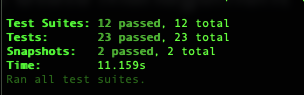
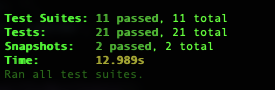
Revert "Challenge 4"

diff --git a/src/providers/Custom/Custom.provider.jsx b/src/providers/Custom/Custom.provider.jsx
@@ -1,33 +1,6 @@
-import React, { useContext, createContext, useReducer } from 'react';
+import React, { useState, useContext, createContext } from 'react';
 
-import * as types from '../../utils/constants';
 import videosMock from '../../youtube-videos-mock.json';
-
-const initialState = {
-  darkMode: false,
-  searchTerm: 'wizeline',
-  searchResult: { ...videosMock, items: videosMock.items.slice(1) },
-};
-
-const reducer = (state = initialState, { type, payload }) => {
-  switch (type) {
-    case types.SET_DARK_MODE: {
-      return { ...state, darkMode: !state.darkMode };
-    }
-
-    case types.SET_SEARCH_TERM: {
-      return { ...state, searchTerm: payload };
-    }
-
-    case types.SET_SEARCH_RESULT: {
-      return { ...state, searchResult: payload };
-    }
-
-    default: {
-      return state;
-    }
-  }
-};
 
 export const CustomContext = createContext(null);
 
@@ -42,22 +15,20 @@ export const useCustom = () => {
 };
 
 const CustomProvider = ({ children }) => {
-  const [state, dispatch] = useReducer(reducer, initialState);
+  const mock = { ...videosMock, items: videosMock.items.slice(1) };
 
-  const switchDarkMode = () => dispatch({ type: types.SET_DARK_MODE });
+  const [searchResult, setSearchResult] = useState(mock);
+  const [darkMode, setDarkMode] = useState(false);
 
-  const updateSearchTerm = (payload) =>
-    dispatch({ type: types.SET_SEARCH_TERM, payload });
-
-  const updateSearchResult = (payload) => {
-    if (payload?.items?.length) {
-      dispatch({ type: types.SET_SEARCH_RESULT, payload });
-    }
+  const updateSearchResult = (res) => {
+    if (res?.items?.length) setSearchResult(res);
   };
+
+  const switchDarkMode = () => setDarkMode((s) => !s);
 
   return (
     <CustomContext.Provider
-      value={{ ...state, switchDarkMode, updateSearchTerm, updateSearchResult }}
+      value={{ searchResult, updateSearchResult, darkMode, switchDarkMode }}
     >
       {children}
     </CustomContext.Provider>

diff --git a/src/components/Header/Header.component.jsx b/src/components/Header/Header.component.jsx
@@ -1,4 +1,4 @@
-import React, { useState } from 'react';
+import React, { useState, useEffect } from 'react';
 import { Toolbar, IconButton, FormControlLabel, MenuItem } from '@material-ui/core';
 import {
   Menu as MenuIcon,
@@ -24,25 +24,24 @@ import { useCustom } from '../../providers/Custom';
 import { useYoutubeSearch } from '../../utils/hooks';
 
 const Header = () => {
+  const [searchTerm, setSearchTerm] = useState('wizeline');
   const [anchorEl, setAnchorEl] = useState(null);
-  const {
-    darkMode,
-    searchTerm,
-    switchDarkMode,
-    updateSearchTerm,
-    updateSearchResult,
-  } = useCustom();
+  const { darkMode, switchDarkMode, updateSearchResult } = useCustom();
   const yt = useYoutubeSearch({ type: 'video' });
 
   const isMenuOpen = Boolean(anchorEl);
   const handleMenuOpen = (e) => setAnchorEl(e.currentTarget);
   const handleMenuClose = () => setAnchorEl(null);
-  const handleSearchOnChange = ({ target: { value } }) => updateSearchTerm(value);
+  const handleSearchOnChange = ({ target: { value } }) => setSearchTerm(value);
   const handleSearchOnSubmit = (e) => {
     e.preventDefault();
 
-    yt.search(searchTerm).then(updateSearchResult);
+    yt.search(searchTerm);
   };
+
+  useEffect(() => {
+    updateSearchResult(yt.result);
+  }, [yt.result, updateSearchResult]);
 
   return (
     <StyledAppBar position="static">

diff --git a/src/utils/fns.js b/src/utils/fns.js
@@ -2,6 +2,24 @@ function random(limit) {
   return Math.floor(Math.random() * limit);
 }
 
+const debounce = (fn, wait) => {
+  let timeout = null;
+
+  return (...args) => {
+    const callback = () => {
+      timeout = null;
+
+      fn(...args);
+    };
+
+    clearTimeout(timeout);
+
+    timeout = setTimeout(callback, wait);
+
+    return { cancel: () => clearTimeout(timeout) };
+  };
+};
+
 const getYoutubeEmbedLink = (id) => `https://www.youtube.com/embed/${id}`;
 
-export { random, getYoutubeEmbedLink };
+export { random, debounce, getYoutubeEmbedLink };

diff --git a/src/utils/constants.js b/src/utils/constants.js
@@ -2,7 +2,3 @@ export const AUTH_STORAGE_KEY = 'wa_cert_authenticated';
 
 export const FETCH_YOUTUBE = 'FETCH_YOUTUBE';
 export const FETCH_YOUTUBE_DONE = 'FETCH_YOUTUBE_DONE';
-
-export const SET_DARK_MODE = 'SET_DARK_MODE';
-export const SET_SEARCH_TERM = 'SET_SEARCH_TERM';
-export const SET_SEARCH_RESULT = 'SET_SEARCH_RESULT';

diff --git a/src/pages/Home/Home.page.jsx b/src/pages/Home/Home.page.jsx
@@ -15,9 +15,9 @@ const Title = styled(Typography).attrs(() => ({
 
 function HomePage() {
   const sectionRef = useRef(null);
-  const {
-    searchResult: { items },
-  } = useCustom();
+  const { searchResult } = useCustom();
+
+  const { items } = searchResult;
 
   return (
     <section className="homepage" ref={sectionRef}>

diff --git a/src/pages/Video/Video.page.jsx b/src/pages/Video/Video.page.jsx
@@ -26,7 +26,7 @@ function VideoPage() {
       <ContentDetails item={itemFound} relatedItems={relatedItems} />
     </section>
   ) : (
-    <Redirect to="/" />
+    <Redirect to="/not-found" />
   );
 
   return componentToRender;

diff --git a/src/utils/hooks/useYoutubeSearch.jsx b/src/utils/hooks/useYoutubeSearch.jsx
@@ -47,7 +47,6 @@ const useYoutubeSearch = (params = defaultParams, initialQuery = '') => {
       }
 
       dispatch({ type: types.FETCH_YOUTUBE_DONE, payload });
-      return payload;
     },
     [params]
   );
